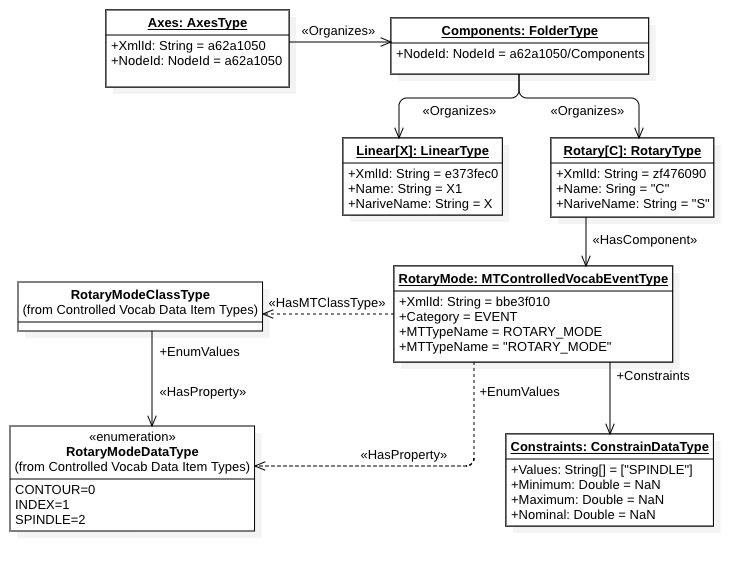
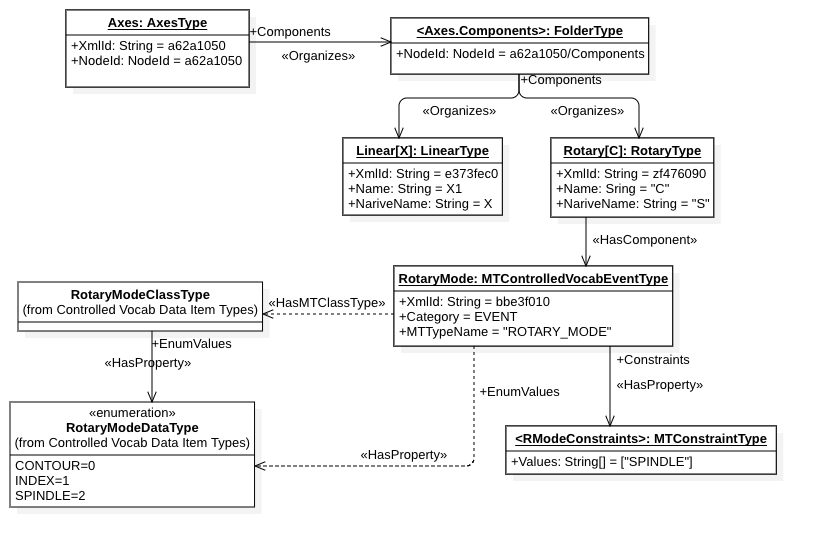
Updated diagrams in document.

Changed region(s): [[0.0, 0.0, 0.9774, 0.9324]]

diff --git a/latex/diagrams/mtconnect-mapping/mtdevice-data-item.tex b/latex/diagrams/mtconnect-mapping/mtdevice-data-item.tex
@@ -10,13 +10,25 @@
            inner sep=2pt,
            text centered           
            },
+   class/.style={
+           rectangle,
+           draw=black, very thick,
+           minimum height=2em,
+           inner sep=2pt,
+           text centered           
+           },
+   ref/.style={
+           thick,->,>={Stealth[length=8pt,width=8pt,inset=4pt]},
+           rounded corners
+           },
+   seg/.style={thick,rounded corners}
 }
 
 \node[object] (device) { %
 \begin{tabular}{l l}
   \multicolumn{2}{c}{\underline{\textbf{SimpleCnc: \typeref{MTDeviceType}}}} \\[4pt]
   \hline
-  NodeId & "x872a3490" \\
+  NodeId & "x872a3490-\ldots" \\
   XmlId & "x872a3490" \\
   Name & "SimpleCnc" \\
   Uuid & "872a3490-\ldots" \\ 
@@ -29,7 +41,7 @@
  \end{tabular}
 };
 
-\node[object,below left=2cm and -1cm of device] (description) { %
+\node[object,below left=1cm and -1cm of device] (description) { %
 \begin{tabular}{l l}
   \multicolumn{2}{c}{\underline{\textbf{Description: \typeref{MTDescriptionType}}}} \\[4pt]
   \hline
@@ -46,47 +58,69 @@
   \multicolumn{2}{c}{\underline{\textbf{Availability: \typeref{MTControlledVocabEventType}}}} \\[4pt]
   \hline
   NodeId & "\ldots/d5b078a0" \\
-  Category & "EVENT" \\
+  Category & EVENT \\
   Name & "avail" \\
   MTTypeName & "AVAILABILITY" \\  
 \end{tabular}
 };
 
-\node[object,below=1cm of avail] (asset-chg) { %
+\node[class,below=1.25cm of avail.south] (avail-class) {
+\textbf{AvailabilityClassType}
+};
+
+\node[object,below=1cm of description] (asset-chg) { %
 \begin{tabular}{l l}
   \multicolumn{2}{c}{\underline{\textbf{AssetChanged: \typeref{MTAssetEventType}}}} \\[4pt]
   \hline
   NodeId & "\ldots/e4a300e0" \\
-  Category & "EVENT" \\
+  Category & EVENT \\
   MTTypeName & "ASSET_CHANGED" \\  
 \end{tabular}
 };
 
-\node[object,below=1cm of asset-chg] (asset-rem) { %
+\node[class,below=1.25cm of asset-chg.south] (asset-chg-class) {
+\textbf{AssetRemovedClassType}
+};
+
+\node[object,below=1cm of asset-chg-class] (asset-rem) { %
 \begin{tabular}{l l}
   \multicolumn{2}{c}{\underline{\textbf{AssetRemoved: \typeref{MTAssetEventType}}}} \\[4pt]
   \hline
   NodeId & "\ldots/f2df7550" \\
-  Category & "EVENT" \\
+  Category & EVENT \\
   MTTypeName & "ASSET_REMOVED" \\  
 \end{tabular}
 };
 
-\draw[->,thick] (device) -| (description)
+\node[class,below=1.25cm of asset-rem.south] (asset-rem-class) {
+\textbf{AssetRemovedClassType}
+};
+
+
+\draw[ref] (device) -| (description)
   node[pos=0.5,above]{<<HasComponent>>};
 
-\draw[->,thick] (server) -- (device) 
+\draw[ref] (server) -- (device) 
   node[pos=0.5,below]{<<HasNotifier>>};
 
-\draw[->,thick] (device) |- (avail) 
+\draw[ref] (device) |- (avail) 
   node[pos=0.75,below]{<<HasComponent>>};
 
-\draw[->,thick] (device) |- (asset-chg) 
+\draw[ref] (device) |- (asset-chg) 
   node[pos=0.75,below]{<<HasComponent>>};
 
-\draw[->,thick] (device) |- (asset-rem) 
+\draw[ref] (device) |- (asset-rem) 
   node[pos=0.75,below]{<<HasComponent>>};
+  
+\draw[ref] (avail) -- (avail-class)
+  node[pos=0.5]{<<HasMTClassType>>};
 
+\draw[ref] (asset-chg) -- (asset-chg-class)
+  node[pos=0.5]{<<HasMTClassType>>};
+
+\draw[ref] (asset-rem) -- (asset-rem-class)
+  node[pos=0.5]{<<HasMTClassType>>};
+  
 \end{tikzpicture}
 }
 \caption{MTConnect Device Object with Data Items}

diff --git a/latex/diagrams/mtconnect-mapping/mtcomponent-uml.tex b/latex/diagrams/mtconnect-mapping/mtcomponent-uml.tex
@@ -68,17 +68,13 @@
 \umlinherit[geometry=-|]{MTSensorConfigurationType}{MTConfigurationType}
 
 
-\umlabstract[below right = 2.5cm and 2cm of MTComponentType]{MTCompositionType}{
+\umlclass[below right = 2.5cm and 2cm of MTComponentType]{MTCompositionType}{
 + Uuid: String[0..1] \\
 + Name: String[0..1] \\
 + MTDescription: String[0..1] \\
 }
 
-\umluniassoc[geometry=-|-, stereo=Organizes, pos stereo=1.6, pos1=1.4,pos2=1.2, arg1=Composition, anchor1=-40, mult1=1..*] {MTComponentType} {MTCompositionType}
-
-\umlsimpleclass[below=2cm of MTCompositionType]{<Composition>Type}{}
-\umlinherit[geometry=--, stereo = bind]{<Composition>Type}{MTCompositionType}
-
+\umluniassoc[geometry=|-, stereo=Organizes, pos stereo=0.5, pos1=0.2,pos2=1.7, arg1=Compositions, anchor1=-35, mult1=0..1, mult2=1..*] {MTComponentType} {MTCompositionType}
 
 \umlclass[below=2.5cm of MTSensorConfigurationType]{MTChannelType}{
 + Number: Int32 \\
@@ -89,7 +85,7 @@
 + CalibrationInitials: String[0..1] \\
 }
 
-\umluniassoc[geometry=--, stereo=Organizes, arg1=Channels, mult1=0..*, mult2=1..*] {MTSensorConfigurationType} {MTChannelType}
+\umluniassoc[geometry=--, stereo=Organizes, arg1=Channels, mult1=0..1, mult2=1..*] {MTSensorConfigurationType} {MTChannelType}
 
 \end{tikzpicture}
 }

diff --git a/latex/diagrams/mtconnect-mapping/device-model.tex b/latex/diagrams/mtconnect-mapping/device-model.tex
@@ -16,7 +16,7 @@
 \begin{tabular}{l l}
   \multicolumn{2}{c}{\underline{\textbf{SimpleCnc: \typeref{MTDeviceType}}}} \\[4pt]
   \hline
-  NodeId & "e2a89160" \\
+  NodeId & "872a3490-bd2d-0136-3eb0-0c85909298d9" \\
   XmlId & "x872a3490" \\
   Name & "SimpleCnc" \\
   Uuid & "872a3490-bd2d-0136-3eb0-0c85909298d9" \\ 

diff --git a/latex/diagrams/mtconnect-mapping/example-object.tex b/latex/diagrams/mtconnect-mapping/example-object.tex
@@ -16,7 +16,7 @@
 \begin{tabular}{l l}
   \multicolumn{2}{c}{\underline{\textbf{SimpleCnc: \typeref{MTDeviceType}}}} \\[4pt]
   \hline
-  NodeId & "e2a89160" \\
+  NodeId & ""872a3490-\ldots" \\
   XmlId & "x872a3490" \\
   Name & "SimpleCnc" \\
   Uuid & "872a3490-\ldots" \\ 

diff --git a/latex/diagrams/mtconnect-mapping/linear-x-example-1.tex b/latex/diagrams/mtconnect-mapping/linear-x-example-1.tex
@@ -30,7 +30,7 @@
   \multicolumn{2}{c}{\underline{\textbf{Axes: AxesType}}} \\[4pt]
   \hline
   XmlId & "a62a1050" \\
-  NodeId & "872a3490-bd2d-0136-3eb0-0c85909298d9" \\
+  NodeId & "872a3490-\ldots/a62a1050" \\
 \end{tabular}
 };
 
